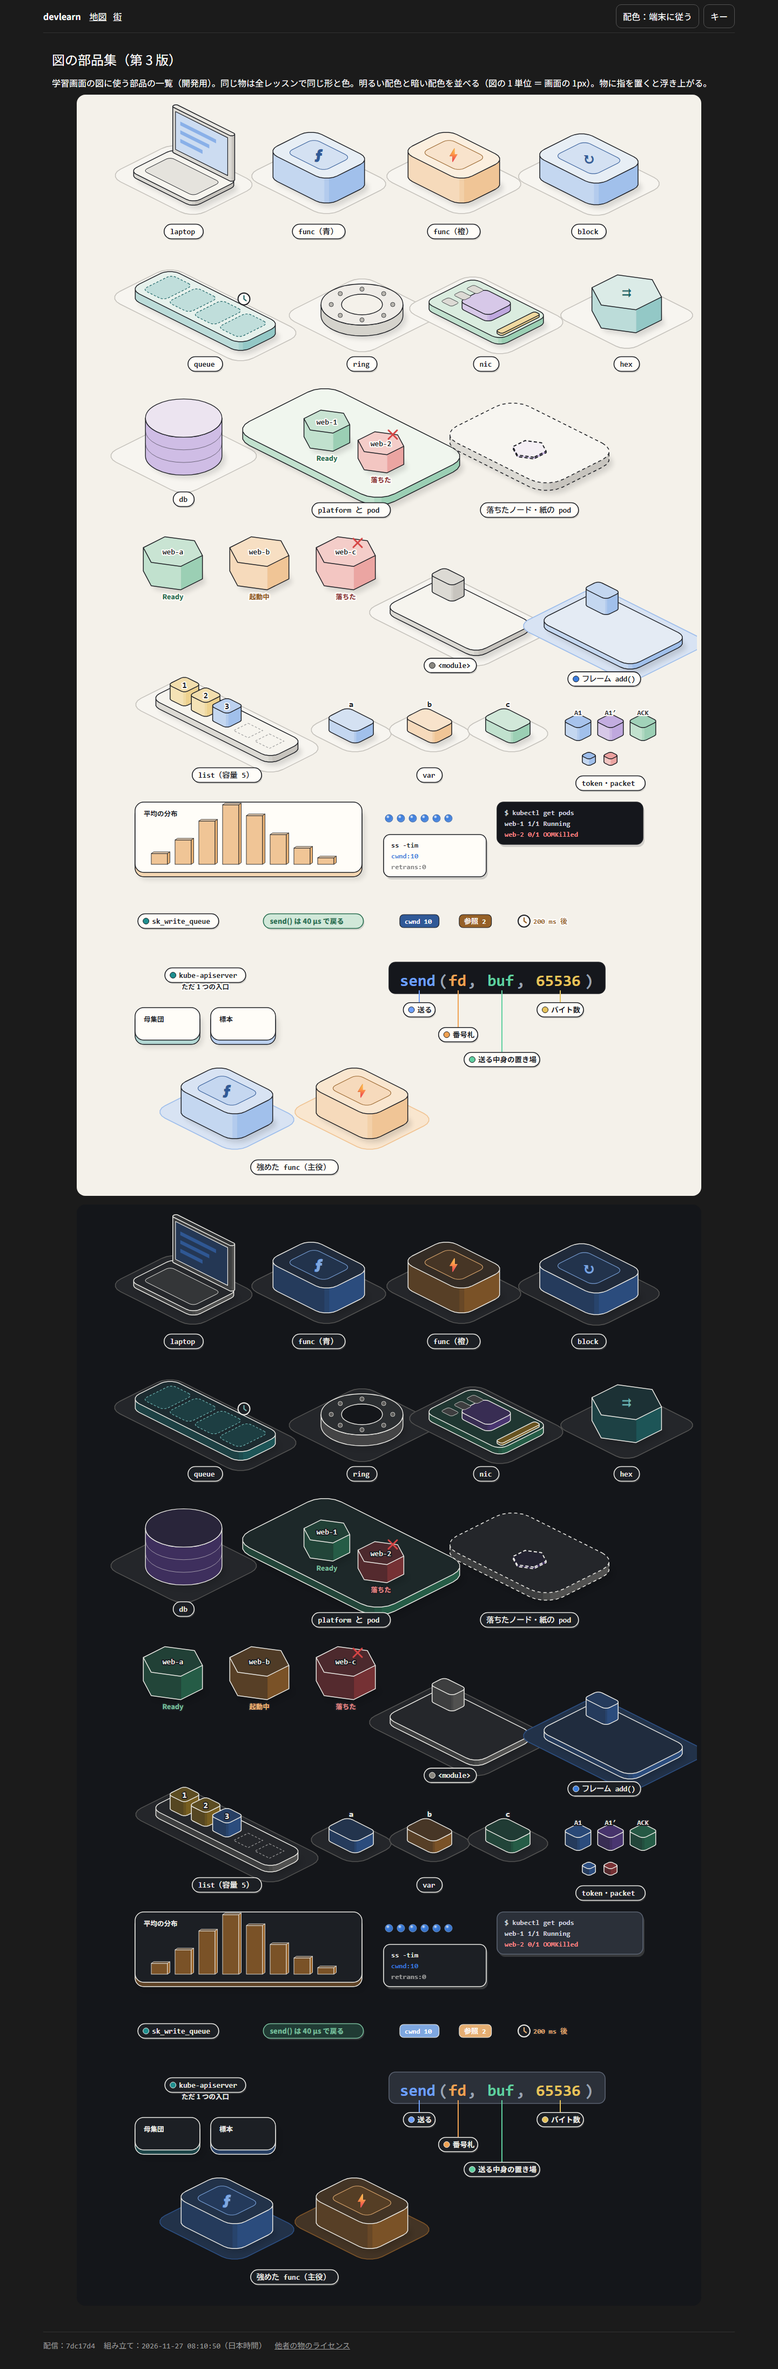
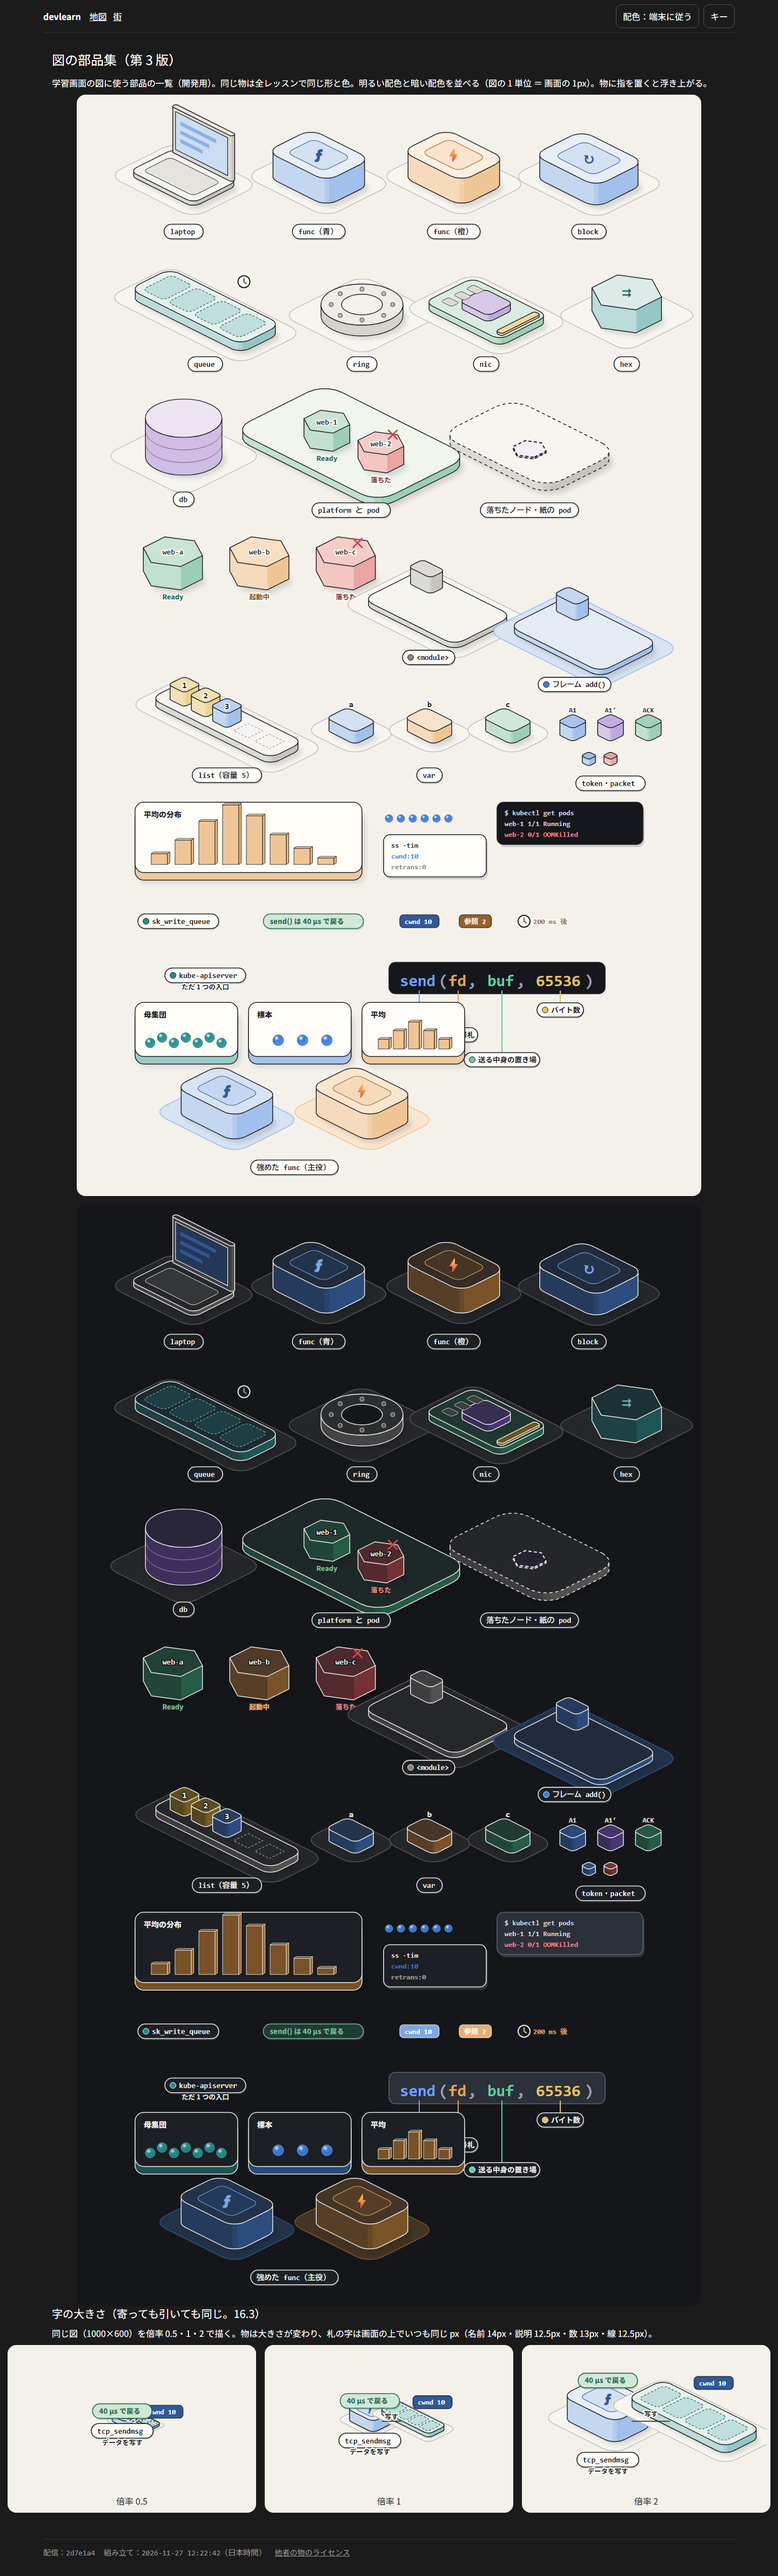
devlearn 10-P 手順 3・4：板 3 枚を式の分解から離す。倍率の図の札を、引いた時も重ならない位置に

Changed region(s): [[0.0, 0.0, 1.0, 0.9936]]

diff --git a/devlearn/src/routes/kit/+page.svelte b/devlearn/src/routes/kit/+page.svelte
@@ -162,19 +162,19 @@
 					<Func x={200} y={1880} tone="blue" glyph="ƒ" hl />
 					<Func x={450} y={1880} tone="orange" glyph="⚡" hl />
 					<Tag x={325} y={1975} text="強めた func（主役）" size={14} />
-					<Panel x={30} y={1670} w={190} h={100} tone="teal" title="母集団">
+					<Panel x={30} y={1670} w={160} h={100} tone="teal" title="母集団">
 						{#each [0, 1, 2, 3, 4, 5, 6] as i (i)}
-							<Sphere x={58 + i * 22} y={1745 - (i % 2) * 10} r={9} tone="teal" />
+							<Sphere x={52 + i * 19} y={1745 - (i % 2) * 10} r={9} tone="teal" />
 						{/each}
 					</Panel>
-					<Panel x={240} y={1670} w={190} h={100} tone="blue" title="標本">
+					<Panel x={205} y={1670} w={160} h={100} tone="blue" title="標本">
 						{#each [0, 1, 2] as i (i)}
-							<Sphere x={295 + i * 45} y={1740} r={10} />
+							<Sphere x={245 + i * 40} y={1740} r={10} />
 						{/each}
 					</Panel>
-					<Panel x={450} y={1670} w={190} h={100} tone="orange" title="平均">
+					<Panel x={380} y={1670} w={160} h={100} tone="orange" title="平均">
 						{#each [18, 34, 50, 34, 18] as h, i (i)}
-							<Bar x={480 + i * 28} y={1756} w={20} {h} tone="orange" />
+							<Bar x={400 + i * 26} y={1756} w={20} {h} tone="orange" />
 						{/each}
 					</Panel>
 					<!-- 7 段目：札（label/） -->
@@ -209,11 +209,11 @@
 								style:stroke="var(--dl-ink)"
 								stroke-width={1.5 * uik}
 							/>
-							<g data-lk="name"><Tag x={420} y={380} text="tcp_sendmsg" {uik} /></g>
+							<g data-lk="name"><Tag x={420} y={400} text="tcp_sendmsg" {uik} /></g>
 							<g data-lk="sub">
 								<Halo
 									x={420}
-									y={380 + 26 * uik}
+									y={400 + 26 * uik}
 									text="データを写す"
 									size={LABEL_PX.sub}
 									{uik}
@@ -221,11 +221,11 @@
 									weight={700}
 								/>
 							</g>
-							<g data-lk="num"><Num x={600} y={220} text="cwnd 10" size={LABEL_PX.num} {uik} /></g>
+							<g data-lk="num"><Num x={720} y={170} text="cwnd 10" size={LABEL_PX.num} {uik} /></g>
 							<g data-lk="line">
 								<Halo
 									x={510}
-									y={290}
+									y={276}
 									text="写す"
 									size={LABEL_PX.line}
 									{uik}
@@ -234,7 +234,7 @@
 								/>
 							</g>
 							<g data-lk="note"
-								><Note x={420} y={215} text="40 µs で戻る" size={LABEL_PX.note} {uik} /></g
+								><Note x={290} y={170} text="40 µs で戻る" size={LABEL_PX.note} {uik} /></g
 							>
 						{/snippet}
 					</Stage>
